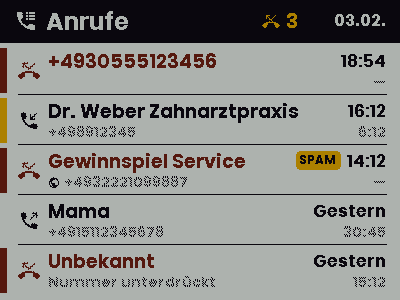
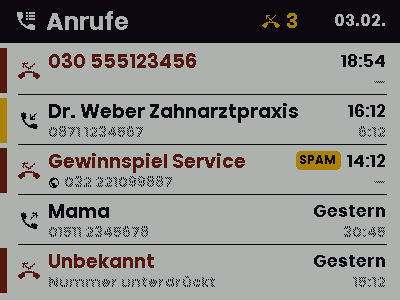
feat: split the area code out of displayed numbers
Adds `number_formatted` to each call record: "08704261" becomes "08704 261",
"01738706416" becomes "0173 8706416". German area codes run from two to five
digits, so this cannot be done by slicing -- 0173, 0871 and 08704 are all real
prefixes off one box -- hence the phonenumbers dependency.

`number` keeps the raw value the box reported. Formatting is cosmetic, so
anything unparseable or invalid falls through unchanged rather than erroring or
rendering empty: a withheld caller, a fake number and a foreign number that
does not validate all still show something.

The region is asked of the box itself (AVM reports "049" in updatecheck) and
falls back to DE, so a foreign caller keeps its country code rather than being
rendered as though it were German.

diff --git a/custom_components/fritzbox_callmonitor/models.py b/custom_components/fritzbox_callmonitor/models.py
@@ -17,8 +17,9 @@ import re
 from typing import Any
 
 from homeassistant.util import dt as dt_util
+import phonenumbers
 
-from .const import REGEX_NUMBER
+from .const import DEFAULT_REGION, REGEX_NUMBER
 
 
 class CallType(StrEnum):
@@ -79,6 +80,7 @@ class CallRecord:
     device: str
     timestamp: datetime
     duration: int
+    number_formatted: str = ""
     name: str | None = None
     name_source: NameSource = NameSource.UNKNOWN
     vip: bool = False
@@ -117,6 +119,7 @@ class CallRecord:
             "id": self.id,
             "type": str(self.type),
             "number": self.number,
+            "number_formatted": self.number_formatted or self.number,
             "own_number": self.own_number,
             "name": self.name,
             "name_source": str(self.name_source),
@@ -129,7 +132,7 @@ class CallRecord:
         }
 
     @classmethod
-    def from_call(cls, call: Any) -> CallRecord:
+    def from_call(cls, call: Any, region: str = DEFAULT_REGION) -> CallRecord:
         """Build a record from a `fritzconnection` `Call`."""
         call_type = CALL_TYPES.get(
             _as_int(getattr(call, "Type", None)), CallType.UNKNOWN
@@ -153,6 +156,7 @@ class CallRecord:
             type=call_type,
             number=number,
             own_number=own_number,
+            number_formatted=format_national(number, region),
             device=_as_str(getattr(call, "Device", None)),
             timestamp=_as_datetime(call),
             duration=_as_duration(call),
@@ -172,6 +176,32 @@ def normalize_number(number: str | None) -> str:
     if not number:
         return ""
     return re.sub(REGEX_NUMBER, "", str(number))
+
+
+def format_national(number: str | None, region: str = DEFAULT_REGION) -> str:
+    """Return a number spaced the way it is dialled, e.g. "08704 261".
+
+    German area codes run from two to five digits, so the split cannot be done
+    by slicing -- 0173 8706416, 0871 7078927 and 08704 261 all differ. Falls
+    back to the raw number for anything unparseable, so the caller always has
+    something to show.
+    """
+    if not number:
+        return ""
+    try:
+        parsed = phonenumbers.parse(number, region)
+    except phonenumbers.NumberParseException:
+        return number
+
+    if not phonenumbers.is_valid_number(parsed):
+        return number
+
+    style = (
+        phonenumbers.PhoneNumberFormat.NATIONAL
+        if phonenumbers.region_code_for_number(parsed) == region
+        else phonenumbers.PhoneNumberFormat.INTERNATIONAL
+    )
+    return phonenumbers.format_number(parsed, style)
 
 
 def national_number(number: str | None, country_code: str = "49") -> str:

diff --git a/custom_components/fritzbox_callmonitor/__init__.py b/custom_components/fritzbox_callmonitor/__init__.py
@@ -17,6 +17,7 @@ from homeassistant.config_entries import ConfigEntry
 from homeassistant.const import CONF_HOST, CONF_PASSWORD, CONF_USERNAME
 from homeassistant.core import HomeAssistant
 from homeassistant.exceptions import ConfigEntryAuthFailed, ConfigEntryNotReady
+import phonenumbers
 from requests.exceptions import ConnectionError as RequestsConnectionError
 
 from .base import FritzBoxPhonebook
@@ -30,6 +31,8 @@ from .const import (
     DEFAULT_HISTORY_DAYS,
     DEFAULT_HISTORY_LIMIT,
     DEFAULT_LOOKUP_PROVIDER,
+    DEFAULT_REGION,
+    FRITZ_ATTR_COUNTRY,
     PLATFORMS,
     LookupProvider,
 )
@@ -59,7 +62,21 @@ async def async_setup_entry(
     """Set up the fritzbox_callmonitor platforms."""
     options = config_entry.options
 
-    def _connect() -> tuple[FritzConnection, FritzBoxPhonebook]:
+    def _region(connection: FritzConnection) -> str:
+        """Ask the box which country it is in, for number formatting.
+
+        AVM reports it as a dialling code ("049"). Anything unexpected falls
+        back to the default rather than failing setup over cosmetics.
+        """
+        try:
+            country = connection.updatecheck[FRITZ_ATTR_COUNTRY]
+            region = phonenumbers.region_code_for_country_code(int(country))
+        except KeyError, TypeError, ValueError, FritzConnectionException:
+            return DEFAULT_REGION
+        # region_code_for_country_code returns "ZZ" when it knows of none.
+        return region if region and region != "ZZ" else DEFAULT_REGION
+
+    def _connect() -> tuple[FritzConnection, FritzBoxPhonebook, str]:
         # One TR-064 session, shared by the phonebook and the call list.
         connection = FritzConnection(
             address=config_entry.data[CONF_HOST],
@@ -72,10 +89,12 @@ async def async_setup_entry(
             prefixes=options.get(CONF_PREFIXES),
         )
         phonebook.init_phonebook()
-        return connection, phonebook
+        return connection, phonebook, _region(connection)
 
     try:
-        connection, fritzbox_phonebook = await hass.async_add_executor_job(_connect)
+        connection, fritzbox_phonebook, region = await hass.async_add_executor_job(
+            _connect
+        )
     except FritzSecurityError as ex:
         _LOGGER.error(
             (
@@ -105,6 +124,7 @@ async def async_setup_entry(
         connection=connection,
         phonebook=fritzbox_phonebook,
         lookup=lookup,
+        region=region,
         history_days=options.get(CONF_HISTORY_DAYS, DEFAULT_HISTORY_DAYS),
         history_limit=options.get(CONF_HISTORY_LIMIT, DEFAULT_HISTORY_LIMIT),
     )

diff --git a/tests/test_models.py b/tests/test_models.py
@@ -112,6 +112,7 @@ def test_as_dict_always_carries_every_key() -> None:
         "id",
         "type",
         "number",
+        "number_formatted",
         "own_number",
         "name",
         "name_source",
@@ -159,3 +160,47 @@ def test_utc_timestamps_are_converted_to_local(hass: HomeAssistant) -> None:
     record = CallRecord.from_call(AwareCall())
 
     assert record.timestamp.tzinfo is not None
+
+
+@pytest.mark.parametrize(
+    ("raw", "expected"),
+    [
+        # German area codes run from two to five digits, so the split cannot be
+        # done by slicing. All of these came off a real FRITZ!Box.
+        ("08704261", "08704 261"),
+        ("01738706416", "0173 8706416"),
+        ("08717078927", "0871 7078927"),
+        ("087173308", "0871 73308"),
+        ("+4930111222", "030 111222"),
+        ("0049891234567", "089 1234567"),
+    ],
+)
+def test_numbers_are_split_into_area_code_and_subscriber(
+    raw: str, expected: str
+) -> None:
+    """The formatted number is what the display shows."""
+    from custom_components.fritzbox_callmonitor.models import format_national
+
+    assert format_national(raw) == expected
+
+
+def test_a_foreign_number_keeps_its_country_code() -> None:
+    """A Swiss caller must not be rendered as though it were German."""
+    from custom_components.fritzbox_callmonitor.models import format_national
+
+    assert format_national("+41446681800") == "+41 44 668 18 00"
+
+
+@pytest.mark.parametrize("raw", ["", "12345", "not a number", "+99999999999999"])
+def test_an_unformattable_number_is_returned_unchanged(raw: str) -> None:
+    """Formatting is cosmetic; it must never lose or mangle the number."""
+    from custom_components.fritzbox_callmonitor.models import format_national
+
+    assert format_national(raw) == raw
+
+
+def test_the_record_always_offers_something_to_display() -> None:
+    """`number_formatted` falls back to the raw number, never to empty."""
+    record = CallRecord.from_call(FakeCall(type="1", caller="12345"))
+
+    assert record.as_dict()["number_formatted"] == "12345"

diff --git a/scripts/preview-blueprint.py b/scripts/preview-blueprint.py
@@ -76,8 +76,15 @@ def _record(**overrides: object) -> dict:
         "timestamp": NOW.isoformat(),
         "duration": 0,
         "icon": "mdi:phone-incoming",
+        "number_formatted": "",
     }
     record.update(overrides)
+    # The integration fills this in; the preview has to as well, or the
+    # rendered example would not match what the display shows.
+    sys.path.insert(0, str(REPO))
+    from custom_components.fritzbox_callmonitor.models import format_national
+
+    record["number_formatted"] = format_national(record["number"]) or record["number"]
     return record
 
 
@@ -88,13 +95,13 @@ SAMPLE = [
     _record(
         id="9",
         type="missed",
-        number="+4930555123456",
+        number="030555123456",
         icon="mdi:phone-missed",
         timestamp=(NOW - timedelta(minutes=18)).isoformat(),
     ),
     _record(
         id="8",
-        number="+498912345",
+        number="08711234567",
         name="Dr. Weber Zahnarztpraxis",
         name_source="phonebook",
         vip=True,
@@ -104,7 +111,7 @@ SAMPLE = [
     _record(
         id="7",
         type="missed",
-        number="+4932221099887",
+        number="032221099887",
         name="Gewinnspiel Service",
         name_source="tellows",
         spam_score=8,
@@ -114,7 +121,7 @@ SAMPLE = [
     _record(
         id="6",
         type="outgoing",
-        number="+4915112345678",
+        number="015112345678",
         name="Mama",
         name_source="phonebook",
         icon="mdi:phone-outgoing",
@@ -134,7 +141,7 @@ SAMPLE = [
     ),
     _record(
         id="5",
-        number="+498998765",
+        number="0870498765",
         name="Hausverwaltung Meier GmbH",
         name_source="dasoertliche",
         duration=95,

diff --git a/custom_components/fritzbox_callmonitor/coordinator.py b/custom_components/fritzbox_callmonitor/coordinator.py
@@ -42,6 +42,7 @@ class FritzBoxCallHistoryCoordinator(DataUpdateCoordinator[list[CallRecord]]):
         connection: FritzConnection,
         phonebook: FritzBoxPhonebook,
         lookup: NumberLookup,
+        region: str,
         history_days: int,
         history_limit: int,
     ) -> None:
@@ -56,6 +57,7 @@ class FritzBoxCallHistoryCoordinator(DataUpdateCoordinator[list[CallRecord]]):
         self._connection = connection
         self._phonebook = phonebook
         self._lookup = lookup
+        self._region = region
         self._history_days = history_days
         self._history_limit = history_limit
         self._fritz_call: FritzCall | None = None
@@ -81,7 +83,7 @@ class FritzBoxCallHistoryCoordinator(DataUpdateCoordinator[list[CallRecord]]):
             self._fritz_call = FritzCall(fc=self._connection)
 
         calls = self._fritz_call.get_calls(days=self._history_days)
-        records = [CallRecord.from_call(call) for call in calls]
+        records = [CallRecord.from_call(call, self._region) for call in calls]
         records.sort(key=lambda record: record.timestamp, reverse=True)
         return records[: self._history_limit]
 
@@ -134,7 +136,7 @@ class FritzBoxCallHistoryCoordinator(DataUpdateCoordinator[list[CallRecord]]):
 
         def _fetch() -> list[CallRecord]:
             calls = self._fritz_call.get_calls(calltype=call_type, days=days)  # type: ignore[union-attr]
-            records = [CallRecord.from_call(call) for call in calls]
+            records = [CallRecord.from_call(call, self._region) for call in calls]
             records.sort(key=lambda record: record.timestamp, reverse=True)
             return records if limit is None else records[:limit]
 

diff --git a/custom_components/fritzbox_callmonitor/const.py b/custom_components/fritzbox_callmonitor/const.py
@@ -72,6 +72,11 @@ MIN_HISTORY_LIMIT = 1
 # attributes (MAX_STATE_ATTRS_BYTES); ~50 records is roughly 9 KiB.
 MAX_HISTORY_LIMIT = 50
 
+# Region used to format numbers the way they are dialled. Derived from the box
+# itself at setup where possible; this is only the fallback.
+DEFAULT_REGION = "DE"
+FRITZ_ATTR_COUNTRY = "Country"
+
 ATTR_CALLS = "calls"
 ATTR_MISSED_CALLS = "missed_calls"
 ATTR_TOTAL_CALLS = "total_calls"

diff --git a/AGENTS.md b/AGENTS.md
@@ -138,6 +138,12 @@ get wrong:
   odl-renderer. Anything else is the user's own licence to hold: Gotham, for
   one, is a commercial typeface, and putting the file in a public repository
   would be redistributing it.
+- **`number` stays raw, `number_formatted` is for display.** German area codes
+  run from two to five digits (`030`, `0871`, `01511`, `08704`), so the split
+  cannot be done by slicing and `phonenumbers` does it. Formatting is cosmetic,
+  so anything unparseable or invalid falls back to the raw number rather than
+  erroring or going empty. The region comes from the box's own `Country` field,
+  falling back to `DE`.
 - **Say where a name came from.** `name_source` distinguishes the user's own
   phonebook from a directory's guess, and the blueprint marks the latter with a
   globe. Treating the two as interchangeable on screen is how a wrong lookup

diff --git a/README.md b/README.md
@@ -41,7 +41,8 @@ need `default()`:
 id: "17"
 type: missed          # incoming | missed | outgoing | rejected
                       # | active_incoming | active_outgoing
-number: "+4930111222" # the other party
+number: "+4930111222" # the other party, exactly as the box reported it
+number_formatted: "030 111222"  # the same number, spaced as it is dialled
 own_number: "+4989000"
 name: Max Mustermann  # or null
 name_source: phonebook  # phonebook | fritzbox | dasoertliche | tellows | unknown
